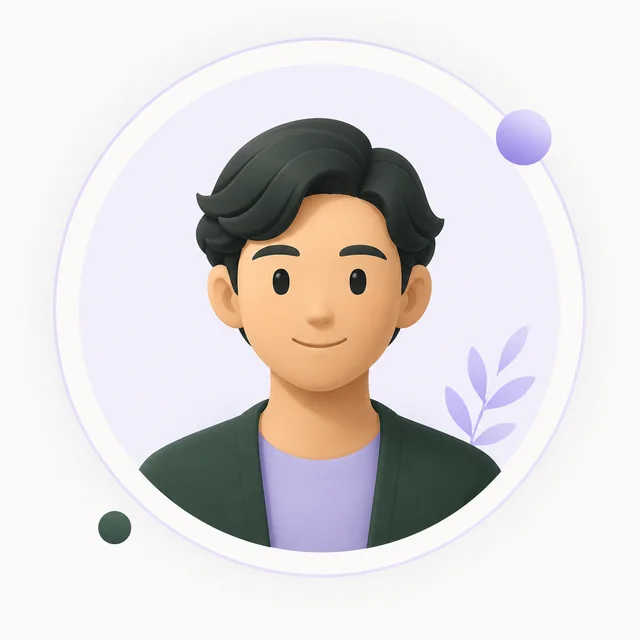
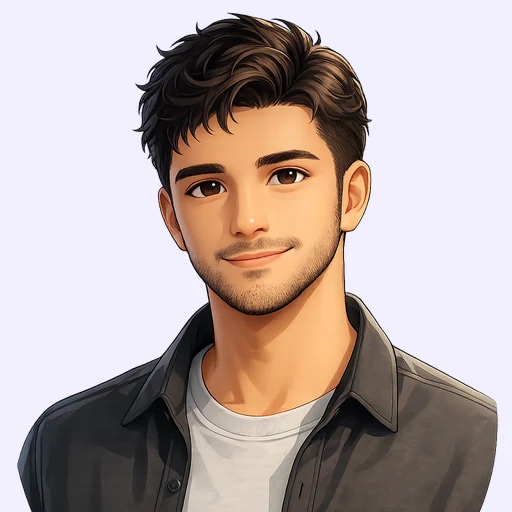
Refine project density
Refine project density sidebar and realistic avatars

diff --git a/static/styles.css b/static/styles.css
@@ -676,3 +676,168 @@ p{line-height:1.72}
   .modern-table th{font-size:11px}
   .modern-table td{font-size:14px}
 }
+
+
+/* =========================================================
+   Version 13: refined density, wider navigation, realistic avatars
+   ========================================================= */
+:root{
+  --sidebar-width:292px;
+  --sidebar-collapsed:94px;
+}
+
+/* Wider, easier-to-scan navigation */
+.workspace-sidebar{
+  padding:18px 14px 14px;
+  border-radius:29px;
+  background:rgba(255,255,255,.94);
+  box-shadow:0 28px 74px rgba(29,31,38,.12),0 2px 7px rgba(29,31,38,.04);
+}
+.sidebar-header{height:72px;padding:0 7px 14px}
+.brand-orbit{width:47px;height:47px;border-radius:15px}
+.brand-orbit>span{border-radius:14px;font-size:13px}
+.brand-text strong{font-size:18px}
+.brand-text small{font-size:13px;margin-top:4px}
+.workspace-nav{padding:24px 2px}
+.nav-label{font-size:12px;padding:0 14px 10px}
+.nav-label-spaced{margin-top:24px}
+.workspace-link{
+  min-height:54px;
+  padding:9px 13px;
+  margin:5px 0;
+  gap:13px;
+  border-radius:15px;
+  font-size:16px;
+  font-weight:650;
+}
+.nav-icon{width:31px;height:31px;border-radius:10px}
+.nav-icon svg{width:18px;height:18px}
+.workspace-link.active{
+  background:linear-gradient(135deg,#111218,#23232c);
+  box-shadow:0 11px 28px rgba(18,19,24,.18);
+}
+.sidebar-profile{padding:12px 10px 13px;gap:12px}
+.profile-photo{width:43px;height:43px;border-radius:14px}
+.profile-meta strong{font-size:15px}
+.profile-meta small{font-size:12px;margin-top:5px}
+.signout-link{margin-top:4px}
+body.sidebar-collapsed .workspace-link{padding:9px}
+body.sidebar-collapsed [data-tooltip]:hover:after{left:66px;font-size:12px;padding:9px 11px}
+
+/* Keep project phases readable without making them excessively tall */
+.project-phase-grid-v11{
+  align-items:start;
+  gap:15px;
+  padding:0 30px 26px;
+}
+.project-phase-grid-v11>article{
+  align-self:start;
+  min-height:0;
+  height:auto;
+  padding:22px 22px 20px;
+  border-radius:23px;
+  border-top:4px solid var(--phase-local,var(--project-accent));
+  background:
+    radial-gradient(circle at 105% 100%,color-mix(in srgb,var(--phase-local,var(--project-accent)) 10%,transparent),transparent 30%),
+    linear-gradient(165deg,#fff 0%,#fbfaff 100%);
+}
+.project-phase-grid-v11>article:after{width:90px;height:90px;right:-38px;bottom:-40px}
+.phase-symbol{width:40px;height:40px;margin-bottom:13px;border-radius:13px;font-size:18px}
+.project-phase-grid-v11>article>span{font-size:12px}
+.project-phase-grid-v11>article>strong{font-size:25px;line-height:1.15;margin:9px 0 8px}
+.project-phase-grid-v11>article>p{font-size:14px;line-height:1.58;margin-bottom:13px;min-height:0}
+.project-phase-grid-v11 ul{margin-top:10px;gap:0}
+.project-phase-grid-v11 li{
+  grid-template-columns:30px minmax(0,1fr);
+  gap:9px;
+  font-size:14px;
+  line-height:1.42;
+  margin:7px 0;
+}
+.project-phase-grid-v11 li b{font-size:13px;padding-top:0}
+
+/* Preserve the useful compact roadmap, with clear text */
+.complete-roadmap-v11 .roadmap-node{min-height:142px}
+.complete-roadmap-v11 .roadmap-node strong{font-size:15px;line-height:1.45}
+
+/* Student-management page typography and controls */
+.management-layout{grid-template-columns:minmax(0,1.12fr) minmax(390px,.78fr);gap:20px;margin-bottom:20px}
+.modern-form-card,.model-card{padding:30px}
+.form-card-heading{gap:17px;margin-bottom:25px}
+.form-card-heading h2{font-size:30px}
+.form-card-heading p{font-size:15px;line-height:1.65}
+.modern-field{font-size:15px;gap:8px}
+.modern-field input,.modern-field select,.modern-field textarea{font-size:16px;min-height:52px;padding:13px 14px;border-radius:15px}
+.modern-field small{font-size:12px}
+.instructor-picker{padding:21px;grid-template-columns:minmax(0,1fr) minmax(340px,.82fr)}
+.instructor-picker h3{font-size:23px}
+.instructor-picker p{font-size:14px;line-height:1.65}
+.instructor-picker label>span{font-size:14px}
+.instructor-picker select{height:55px;font-size:15px;padding:0 15px}
+.model-card-picture img{width:126px;height:126px;border-radius:31px}
+.model-card-picture span{font-size:13px}
+.model-card h2{font-size:39px}
+.model-card p{font-size:16px;line-height:1.65}
+.model-card li{font-size:15px;line-height:1.5}
+.roster-card .catalog-toolbar h2{font-size:26px}
+.roster-table{min-width:1160px}
+.roster-table th{font-size:12px;letter-spacing:.09em}
+.roster-table td{font-size:15px}
+.roster-table td>strong,.identity-cell strong{font-size:15px}
+.identity-cell small{font-size:12px}
+.inline-editor{gap:7px}
+.inline-editor input,.inline-editor select{height:44px;min-width:118px;max-width:160px;font-size:14px;padding:0 10px}
+.inline-select select{min-width:150px;max-width:180px}
+.inline-editor button{font-size:13px}
+.stacked-number strong{font-size:16px}
+.stacked-number small{font-size:12px}
+
+/* Realistic avatar gallery: large enough to evaluate the portraits */
+.avatar-studio-card{padding:34px}
+.avatar-choice-heading{margin:30px 0 20px}
+.avatar-choice-heading h3{font-size:27px}
+.avatar-choice-heading>span{font-size:13px}
+.avatar-option-grid{
+  grid-template-columns:repeat(5,minmax(150px,1fr));
+  gap:20px 16px;
+}
+.avatar-option-visual{
+  padding:8px;
+  border-radius:25px;
+  background:linear-gradient(145deg,#fff,#f5f3ff);
+}
+.avatar-option-visual img{
+  border-radius:19px;
+  object-position:center top;
+  background:linear-gradient(145deg,#f3f1ff,#fff7ee);
+}
+.avatar-option-copy{padding:11px 5px 0}
+.avatar-option-copy strong{font-size:15px;line-height:1.35}
+.avatar-option-copy small{font-size:12px;margin-top:3px}
+.avatar-option-visual i{width:31px;height:31px;font-size:13px;right:5px;bottom:5px}
+.avatar-preview-shell img,.profile-photo,.topbar-avatar img,.mini-avatar-photo{object-position:center top}
+
+/* Small polish */
+.surface-card{border-color:rgba(222,223,231,.96)}
+.page-heading p{max-width:850px}
+
+@media(max-width:1320px){
+  :root{--sidebar-width:270px}
+  .avatar-option-grid{grid-template-columns:repeat(5,minmax(120px,1fr))}
+  .management-layout{grid-template-columns:1fr}
+}
+@media(max-width:1080px){
+  :root{--sidebar-width:250px}
+  .workspace-link{font-size:15px}
+  .project-phase-grid-v11{grid-template-columns:1fr 1fr}
+}
+@media(max-width:820px){
+  .workspace-sidebar{width:min(330px,calc(100vw - 36px))}
+  .avatar-option-grid{grid-template-columns:repeat(2,minmax(120px,1fr))}
+}
+@media(max-width:560px){
+  .project-phase-grid-v11{grid-template-columns:1fr}
+  .avatar-option-grid{grid-template-columns:1fr 1fr;gap:14px 10px}
+  .avatar-option-copy strong{font-size:13px}
+  .avatar-option-copy small{font-size:11px}
+}

diff --git a/templates/profile.html b/templates/profile.html
@@ -2,7 +2,7 @@
 {% block title %}Profile Settings | Developer Academy{% endblock %}
 {% block content %}
 <section class="page-heading profile-page-heading profile-heading-v11">
-  <div><span class="eyebrow">Account settings</span><h1>Make the workspace yours.</h1><p>Choose one of ten illustrated avatars or upload a personal photo. Your profile appears across mentoring, submissions, grading, and navigation.</p></div>
+  <div><span class="eyebrow">Account settings</span><h1>Make the workspace yours.</h1><p>Choose one of ten realistic illustrated portraits or upload a personal photo. Your profile appears across mentoring, submissions, grading, and navigation.</p></div>
 </section>
 
 <form class="profile-v11-form reveal" method="post" enctype="multipart/form-data">
@@ -10,9 +10,9 @@
   <section class="surface-card avatar-studio-card">
     <div class="avatar-studio-intro">
       <div class="avatar-preview-shell avatar-preview-v11"><img src="{{ avatar_src(user.avatar_filename) }}" alt="Current profile picture" data-avatar-preview></div>
-      <div><span class="eyebrow">Profile identity</span><h2>Pick an avatar that feels like you.</h2><p>Five male and five female illustrated options are included. A custom square photo is also supported.</p><div class="avatar-studio-actions"><label class="button button-secondary avatar-upload-button">Upload my photo<input type="file" name="avatar" accept="image/png,image/jpeg,image/webp" data-avatar-input hidden></label>{% if user.avatar_filename %}<label class="remove-avatar"><input type="checkbox" name="remove_avatar" value="1"> Use default avatar</label>{% endif %}</div></div>
+      <div><span class="eyebrow">Profile identity</span><h2>Pick an avatar that feels like you.</h2><p>Five male and five female semi-realistic portrait options are included. A custom square photo is also supported.</p><div class="avatar-studio-actions"><label class="button button-secondary avatar-upload-button">Upload my photo<input type="file" name="avatar" accept="image/png,image/jpeg,image/webp" data-avatar-input hidden></label>{% if user.avatar_filename %}<label class="remove-avatar"><input type="checkbox" name="remove_avatar" value="1"> Use default avatar</label>{% endif %}</div></div>
     </div>
-    <div class="avatar-choice-heading"><div><span class="eyebrow">Built-in choices</span><h3>Ten friendly avatar styles</h3></div><span>Select one and save your profile</span></div>
+    <div class="avatar-choice-heading"><div><span class="eyebrow">Built-in choices</span><h3>Ten realistic portrait options</h3></div><span>Select one and save your profile</span></div>
     <div class="avatar-option-grid">
       {% for preset in avatar_presets %}
       <label class="avatar-option {% if user.avatar_filename == preset.filename %}selected{% endif %}">

diff --git a/templates/base.html b/templates/base.html
@@ -9,7 +9,7 @@
   <link rel="preconnect" href="https://fonts.gstatic.com" crossorigin>
   <link href="https://fonts.googleapis.com/css2?family=DM+Sans:wght@400;500;600;700&family=Manrope:wght@500;600;700;800&display=swap" rel="stylesheet">
   <link rel="icon" href="{{ url_for('static', filename='favicon.svg') }}" type="image/svg+xml">
-  <link rel="stylesheet" href="{{ url_for('static', filename='styles.css', v='12') }}">
+  <link rel="stylesheet" href="{{ url_for('static', filename='styles.css', v='13') }}">
 </head>
 <body class="{% if current_user %}app-body{% else %}public-body{% endif %}">
 {% if current_user %}
@@ -163,6 +163,6 @@
 </main>
 <footer class="public-footer"><div><strong>Salesforce Developer Academy</strong><p>One selected industry application, built over sixteen weeks.</p></div><div>Build · Research · Explain · Deliver</div></footer>
 {% endif %}
-<script src="{{ url_for('static', filename='app.js', v='12') }}" defer></script>
+<script src="{{ url_for('static', filename='app.js', v='13') }}" defer></script>
 </body>
 </html>

diff --git a/app.py b/app.py
@@ -22,13 +22,17 @@ DB_PATH.parent.mkdir(parents=True, exist_ok=True)
 ALLOWED_EXTENSIONS = {"pdf", "doc", "docx", "txt", "md", "png", "jpg", "jpeg", "zip"}
 AVATAR_EXTENSIONS = {"png", "jpg", "jpeg", "webp"}
 AVATAR_PRESETS = [
-    {"filename": f"avatar-male-{index:02d}.svg", "label": f"Male avatar {index}", "group": "Male"}
+    {"filename": f"realistic-male-{index:02d}.png", "label": f"Male portrait {index}", "group": "Male"}
     for index in range(1, 6)
 ] + [
-    {"filename": f"avatar-female-{index:02d}.svg", "label": f"Female avatar {index}", "group": "Female"}
+    {"filename": f"realistic-female-{index:02d}.png", "label": f"Female portrait {index}", "group": "Female"}
     for index in range(1, 6)
 ]
-AVATAR_PRESET_FILES = {item["filename"] for item in AVATAR_PRESETS}
+LEGACY_AVATAR_PRESET_FILES = {
+    *(f"avatar-male-{index:02d}.svg" for index in range(1, 6)),
+    *(f"avatar-female-{index:02d}.svg" for index in range(1, 6)),
+}
+AVATAR_PRESET_FILES = {item["filename"] for item in AVATAR_PRESETS} | LEGACY_AVATAR_PRESET_FILES
 
 app = Flask(__name__)
 app.config["SECRET_KEY"] = os.environ.get("SECRET_KEY", "change-this-secret-in-production")

diff --git a/REFINED_UI_REALISTIC_AVATARS_V13_GUIDE.md b/REFINED_UI_REALISTIC_AVATARS_V13_GUIDE.md
@@ -1,0 +1,36 @@
+# LearningPortal Version 13
+
+Version 13 refines the large-text design without making the project phase cards unnecessarily tall.
+
+## Included
+
+- wider desktop sidebar
+- larger navigation and profile text
+- shorter and denser four-phase project cards
+- preserved readable 16-week roadmap cards
+- improved Students form, instructor dropdown, and roster typography
+- ten new semi-realistic avatar portraits
+- larger two-row avatar selection gallery
+- custom profile-picture upload remains available
+- stylesheet and JavaScript cache-busting set to Version 13
+
+## GitHub
+
+Upload everything in this folder to the root of `enginyasmun/LearningPortal` and replace existing files.
+
+Suggested commit message:
+
+`Refine project density sidebar and realistic avatars`
+
+## PythonAnywhere
+
+```bash
+cd ~/LearningPortal
+git pull origin main
+workon coaching-env
+python -m py_compile app.py guided_labs.py curriculum_data.py seed.py
+```
+
+Reload the PythonAnywhere web app and press `Ctrl + F5`.
+
+No database migration is required. Do not delete `academy.db` and do not run a reset seed.
